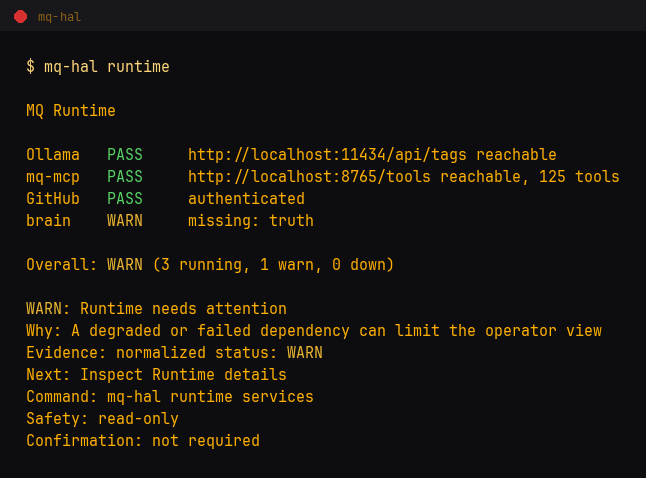
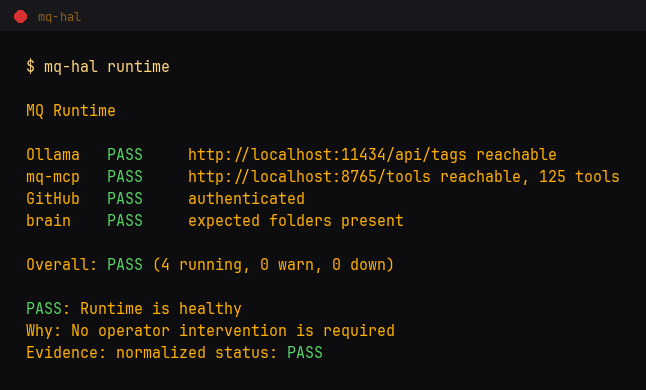
fix(brain): look for truth exports where mq-agent writes them
`mq-hal runtime` reported "brain WARN missing: truth" and `mq-hal brain`
reported "truth exports 0" — while listing memory/stack-truth/2026-08-06-mq-
stack-truth.md under recent notes in the same output. Both probed for a
top-level truth/ folder that the vault does not have; mq-agent writes stack
truth exports to memory/stack-truth/.

Adds BRAIN_FOLDER_SOURCES in hal/brain.py mapping each category to the paths
it can live under, and imports it into hal/runtime.py rather than repeating
the list — duplicating the layout in two modules is what let them drift.

Found while clearing a genuinely stale export. Running `mq-agent stack
truth-export` moved the cockpit to fresh (age_days 0) but the HAL warning
stayed, which is what exposed this as a separate bug rather than staleness.

Real output now: brain PASS "expected folders present", runtime Overall PASS,
truth exports 9. docs/screenshots/runtime.png is regenerated from that run and
its alt text no longer describes a WARN that is not there.

diff --git a/hal/brain.py b/hal/brain.py
@@ -24,6 +24,17 @@ STATE_DIR = Path(
 ).expanduser()
 
 BRAIN_FOLDERS = ("memory", "learn", "truth", "reviews")
+
+# Where each category actually lives in the vault, in priority order. mq-agent
+# writes stack truth exports to memory/stack-truth/ and the vault has no
+# top-level truth/ folder, so probing for one reported an empty truth category
+# while the same view listed the exports under recent notes.
+BRAIN_FOLDER_SOURCES: dict[str, tuple[str, ...]] = {
+    "memory": ("memory",),
+    "learn": ("learn",),
+    "truth": ("truth", "memory/stack-truth"),
+    "reviews": ("reviews",),
+}
 TEXT_SUFFIXES = {".md", ".txt", ".json", ".jsonl", ".yaml", ".yml"}
 
 SAMPLE: dict[str, Any] = {
@@ -119,12 +130,12 @@ def collect(root: Path | None = None) -> dict[str, Any]:
     all_files: dict[str, list[Path]] = {}
 
     for name in BRAIN_FOLDERS:
-        folder = root / name
-        files = iter_text_files(folder)
+        sources = [root / source for source in BRAIN_FOLDER_SOURCES[name]]
+        files = [path for folder in sources for path in iter_text_files(folder)]
         all_files[name] = files
         newest = latest(files)
         folders[name] = {
-            "exists": folder.exists() and folder.is_dir(),
+            "exists": any(folder.is_dir() for folder in sources),
             "count": len(files),
             "latest": rel(newest, root) if newest else None,
         }

diff --git a/hal/runtime.py b/hal/runtime.py
@@ -15,8 +15,10 @@ from pathlib import Path
 from typing import Any
 
 try:
+    from hal.brain import BRAIN_FOLDER_SOURCES
     from hal.feedback import render_feedback, surface_feedback
 except ModuleNotFoundError:  # direct script execution outside the repo root
+    from brain import BRAIN_FOLDER_SOURCES
     from feedback import render_feedback, surface_feedback
 
 
@@ -188,8 +190,11 @@ def probe_brain() -> ProbeResult:
         "detail": str(BRAIN_ROOT) if exists else f"{BRAIN_ROOT} not found",
     })
     if exists:
-        expected = ["memory", "learn", "truth", "reviews"]
-        missing = [name for name in expected if not (BRAIN_ROOT / name).exists()]
+        missing = [
+            name
+            for name, sources in BRAIN_FOLDER_SOURCES.items()
+            if not any((BRAIN_ROOT / source).is_dir() for source in sources)
+        ]
         checks.append({
             "name": "folders",
             "status": "RUNNING" if not missing else "WARN",

diff --git a/README.md b/README.md
@@ -92,7 +92,7 @@ Escalate: schema-invalid, verification-failed, confidence-below-threshold, polic
 Rendered from live command output by
 [tools/generate_screenshots.py](tools/generate_screenshots.py), never edited by hand.
 
-![mq-hal runtime — service health; a degraded dependency yields WARN plus an advisory next action](docs/screenshots/runtime.png)
+![mq-hal runtime — local service health, one line per dependency plus a normalized overall status](docs/screenshots/runtime.png)
 
 ![mq-hal route — model-routing state read from mq-agent contracts](docs/screenshots/route.png)
 
